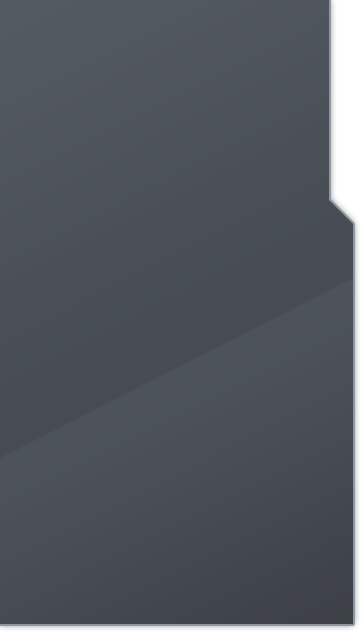
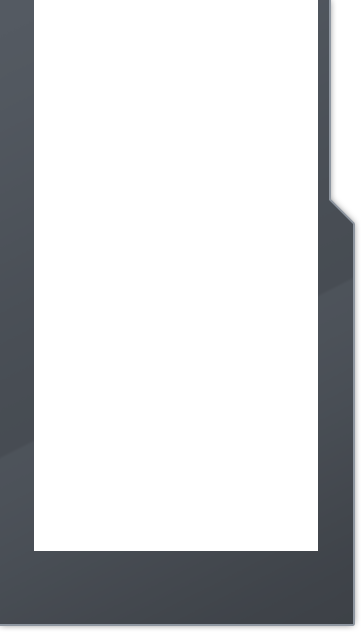
feat(~): initial version of background video
Only works on music servers. Custom songs will come later

diff --git a/src/game/display/index.js b/src/game/display/index.js
@@ -4,13 +4,17 @@ import './game-display.scss'
 import $ from 'jquery'
 
 export class GameDisplay {
-  constructor ({ game, context, backgroundImagePromise }) {
+  constructor ({ game, context, backgroundImagePromise, video }) {
     this._game      = game
     this._context   = context
     this._players   = new Map(game.players.map(player =>
         [player, new PlayerDisplay(player)]))
     this._stateful  = { }
-    this._wrapper   = this._createWrapper({ backgroundImagePromise })
+    this._wrapper   = this._createWrapper({
+      backgroundImagePromise,
+      video,
+      panelPlacement: game.players[0].options.placement
+    })
   }
   start () {
     this._started = new Date().getTime()
@@ -28,6 +32,11 @@ export class GameDisplay {
     let data = this._getData(time, gameTime, gameState)
     this._updateStatefulData(time, gameTime, gameState)
     this._context.render(Object.assign({ }, this._stateful, data))
+    if (this._video && !this._videoStarted && gameTime >= this._videoOffset) {
+      this._video.play()
+      this._video.classList.add('is-playing')
+      this._videoStarted = true
+    }
   }
   _getData (time, gameTime, gameState) {
     let data = { }
@@ -63,14 +72,20 @@ export class GameDisplay {
     let f = gameState.readyFraction
     return f > 0.5 ? Math.pow(1 - (f - 0.5) / 0.5, 2) : 0
   }
-  _createWrapper ({ backgroundImagePromise }) {
+  _createWrapper ({ backgroundImagePromise, video, panelPlacement }) {
     var $wrapper = $('<div class="game-display"></div>')
-    .append('<div class="game-display--bg js-back-image"></div>')
-    .append(this.view)
+      .attr('data-panel-placement', panelPlacement)
+      .append('<div class="game-display--bg js-back-image"></div>')
+      .append(this.view)
     if (backgroundImagePromise) {
       Promise.resolve(backgroundImagePromise).then(
         image => $wrapper.find('.js-back-image').append(image)
       )
+    }
+    if (video) {
+      this._video = video.element
+      this._videoOffset = video.offset
+      $(video.element).addClass('game-display--video-bg').appendTo($wrapper)
     }
     return $wrapper[0]
   }

diff --git a/src/game/loaders/game-loader.js b/src/game/loaders/game-loader.js
@@ -81,14 +81,49 @@ export function load (spec) {
       return new SamplingMaster()
     })
 
+    task('Video', spec.videoUrl ? 'Loading video' : null, ['Notechart'],
+    function (notechart, progress) {
+      if (!spec.videoUrl) return Promise.resolve(null)
+      return new Promise((resolve, reject) => {
+        const video = document.createElement('video')
+        video.src = spec.videoUrl
+        video.addEventListener('progress', onProgress, true)
+        video.addEventListener('canplaythrough', onCanPlayThrough, true)
+        video.addEventListener('error', onError, true)
+        video.load()
+
+        function onProgress (e) {
+          if (e.lengthComputable) {
+            progress.report(e.loaded, e.total)
+          }
+        }
+        function onCanPlayThrough () {
+          video.removeEventListener('progress', onProgress, true)
+          video.removeEventListener('canplaythrough', onCanPlayThrough, true)
+          progress.report(100, 100)
+          resolve({ element: video, offset: spec.videoOffset })
+        }
+        function onError () {
+          console.warn('Cannot load video... Just skip it!')
+          resolve(null)
+        }
+      })
+    })
+
     task('Game', null, ['Notechart'],
     function (notechart) {
       return new Game([notechart], spec.options)
     })
 
-    task('GameDisplay', null, ['Game', 'Skin', 'SkinContext'],
-    function (game, skin, context) {
-      return new GameDisplay({ game, skin, context, backgroundImagePromise: run('BackgroundImage') })
+    task('GameDisplay', null, ['Game', 'Skin', 'SkinContext', 'Video'],
+    function (game, skin, context, video) {
+      return new GameDisplay({
+        game,
+        skin,
+        context,
+        backgroundImagePromise: run('BackgroundImage'),
+        video
+      })
     })
 
     task('Samples', null, ['SamplingMaster', 'Game'],

diff --git a/src/game/display/game-display.scss b/src/game/display/game-display.scss
@@ -18,6 +18,29 @@
     animation-fill-mode: both;
   }
 
+  &--video-bg {
+    width: 100%;
+    height: 100%;
+    position: absolute;
+    top: -48px;
+    left: 0px;
+    z-index: 11;
+    opacity: 0;
+    transition: 0.5s opacity;
+    will-change: opacity;
+    &.is-playing {
+      opacity: 1;
+    }
+  }
+  &[data-panel-placement="left"] &--video-bg {
+    left: 135px;
+    transform: scale(0.87);
+  }
+  &[data-panel-placement="right"] &--video-bg {
+    left: -135px;
+    transform: scale(0.87);
+  }
+
   &--bg img {
     width: 100%;
     height: 100%;

diff --git a/src/app/game-launcher.js b/src/app/game-launcher.js
@@ -79,6 +79,10 @@ export function launch ({ server, song, chart, options, saveSpeed }) {
       ],
     }
 
+    // set video options
+    loadSpec.videoUrl = song.video_url
+    loadSpec.videoOffset = +song.video_offset
+
     // start loading the game
     const GameLoader = require('bemuse/game/loaders/game-loader')
     let loader = GameLoader.load(loadSpec)
